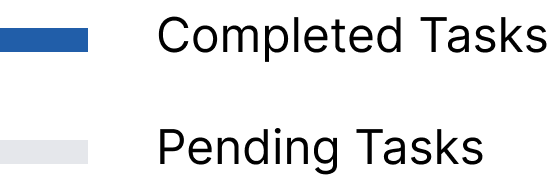
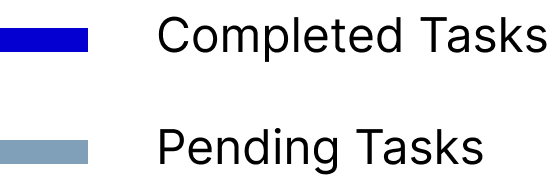
Chart Box Added

Changed region(s): [[0.0, 0.1359, 0.1848, 0.2989], [0.0, 0.7609, 0.1848, 0.8967]]

diff --git a/task_system/lib/components/chartBox.dart b/task_system/lib/components/chartBox.dart
@@ -1,0 +1,68 @@
+
+import 'package:flutter/material.dart';
+import 'package:task_system/colors/appColors.dart';
+import 'package:task_system/sizes/create_MainTask_Sizes.dart';
+import 'package:percent_indicator/percent_indicator.dart';
+
+class ChartBox extends StatelessWidget {
+  final String centerText;
+  final String footerText;
+  final  percent;
+
+  const ChartBox({Key? key,
+    required this.centerText,
+    required this.percent,
+    required this.footerText}) : super(key: key);
+
+  @override
+  Widget build(BuildContext context) {
+    return Container(
+      width: chartBoxWidth(context),
+      height: chartBoxHeight(context),
+      decoration: BoxDecoration(
+          color: Colors.white,
+          borderRadius: BorderRadius.circular(15),
+          // shape: BoxShape.circle,
+          boxShadow: [
+            BoxShadow(
+              color: Colors.grey.shade500,
+              offset: const Offset(4, 4),
+              blurRadius: 15,
+              spreadRadius: 1,
+            ),
+
+            const BoxShadow(
+              color: Colors.white,
+              offset: Offset(-4, -4),
+              blurRadius: 15,
+              spreadRadius: 1,
+            ),
+          ]
+      ),
+      child: CircularPercentIndicator(
+        radius: chartRadius(context),
+        lineWidth: chartLineWidth(context),
+        animation: true,
+        percent: percent,
+        center: new Text(
+          centerText,
+          style:
+          new TextStyle(fontWeight: FontWeight.bold, fontSize: taskCountFont(context)),
+        ),
+        footer:
+        Padding(
+          padding:  EdgeInsets.only(top: navBoxPadding(context)),
+          child: Text(
+            footerText,
+            style:
+             TextStyle( fontSize: serTextFont(context)),
+          ),
+        ),
+        circularStrokeCap: CircularStrokeCap.round,
+        progressColor: AppColor.complete,
+        backgroundColor: AppColor.pending,
+      ),
+
+    );
+  }
+}

diff --git a/task_system/lib/pages/tasks/completedTask.dart b/task_system/lib/pages/tasks/completedTask.dart
@@ -1,4 +1,5 @@
 import 'package:flutter/material.dart';
+import 'package:task_system/components/chartBox.dart';
 
 import '../../colors/appColors.dart';
 import '../../components/appBar.dart';
@@ -66,11 +67,11 @@ class _CompletedTaskState extends State<CompletedTask> {
                 Container(
                   width: chartSectionWidth(context),
                   height: chartSectionHeight(context),
-                  color: Colors.cyan,
+                  // color: Colors.cyan,
                   child: Row(
                     children: [
                       Container(
-                        color: Colors.white,
+                        // color: Colors.white,
                         width: chartTextWidth(context),
                         height: chartTextHeight(context),
                         padding: EdgeInsets.all(navBoxPadding(context)),
@@ -116,7 +117,12 @@ class _CompletedTaskState extends State<CompletedTask> {
                             width: chartIMGWidth(context),)
                           ],
                         ),
-                      )
+                      ),
+
+                      ChartBox(
+                        centerText: '70.0%',
+                        percent: 0.7,
+                        footerText: 'Task this Week',),
                     ],
                   ),
                 )

diff --git a/task_system/lib/sizes/create_MainTask_Sizes.dart b/task_system/lib/sizes/create_MainTask_Sizes.dart
@@ -228,3 +228,19 @@ double chartIMGWidth(BuildContext context) {
 double taskCountFont(BuildContext context) {
   return (getPageWidth(context) * 0.005) * (getPageHeight(context) * 0.005);
 }
+
+double chartBoxHeight(BuildContext context) {
+  return (getPageHeight(context) * 0.3) ;
+}
+
+double chartBoxWidth(BuildContext context) {
+  return (getPageWidth(context) * 0.16) ;
+}
+
+double chartRadius(BuildContext context) {
+  return (getPageHeight(context) * 0.1) ;
+}
+
+double chartLineWidth(BuildContext context) {
+  return (getPageWidth(context) * 0.008) ;
+}
